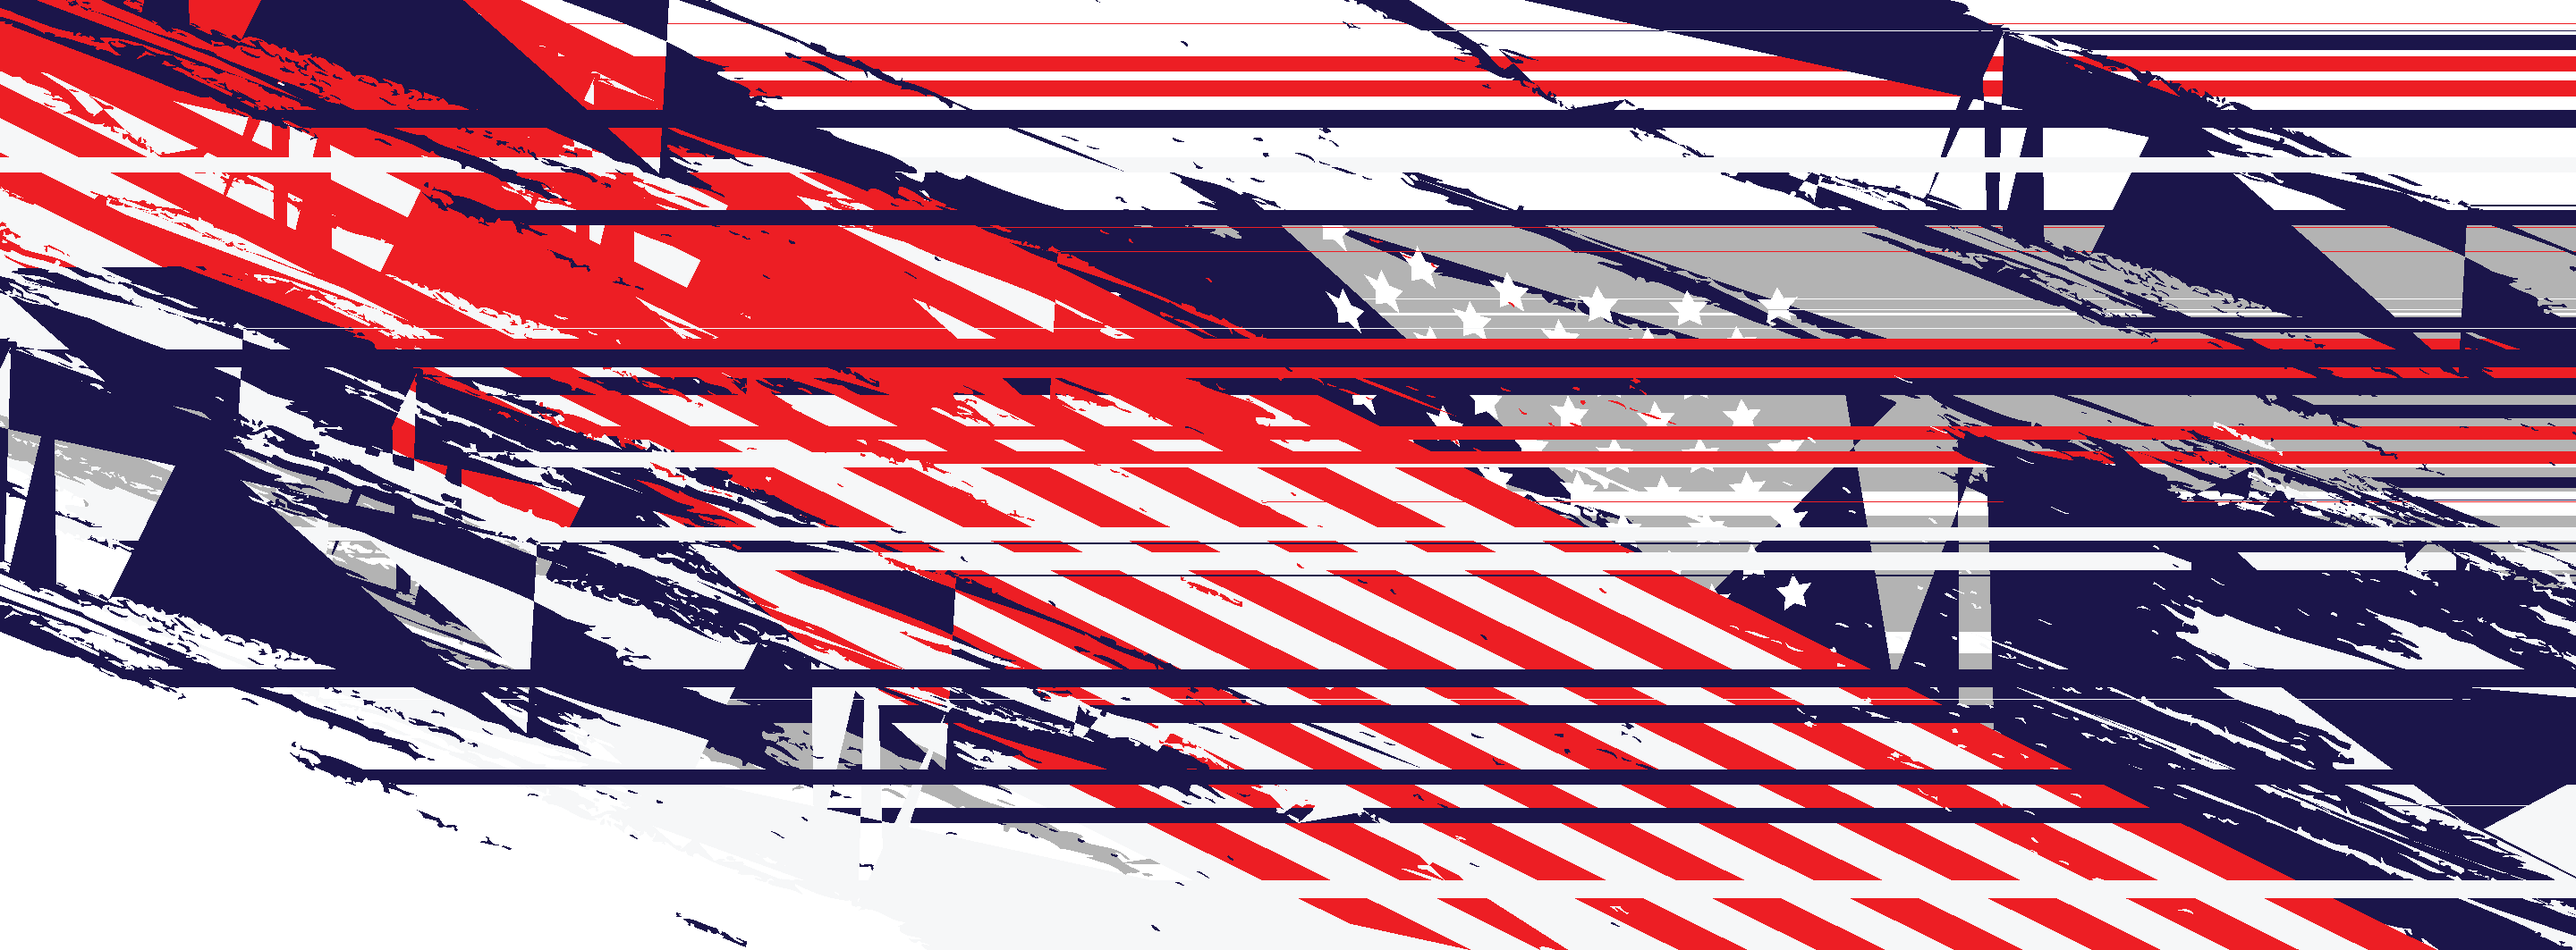
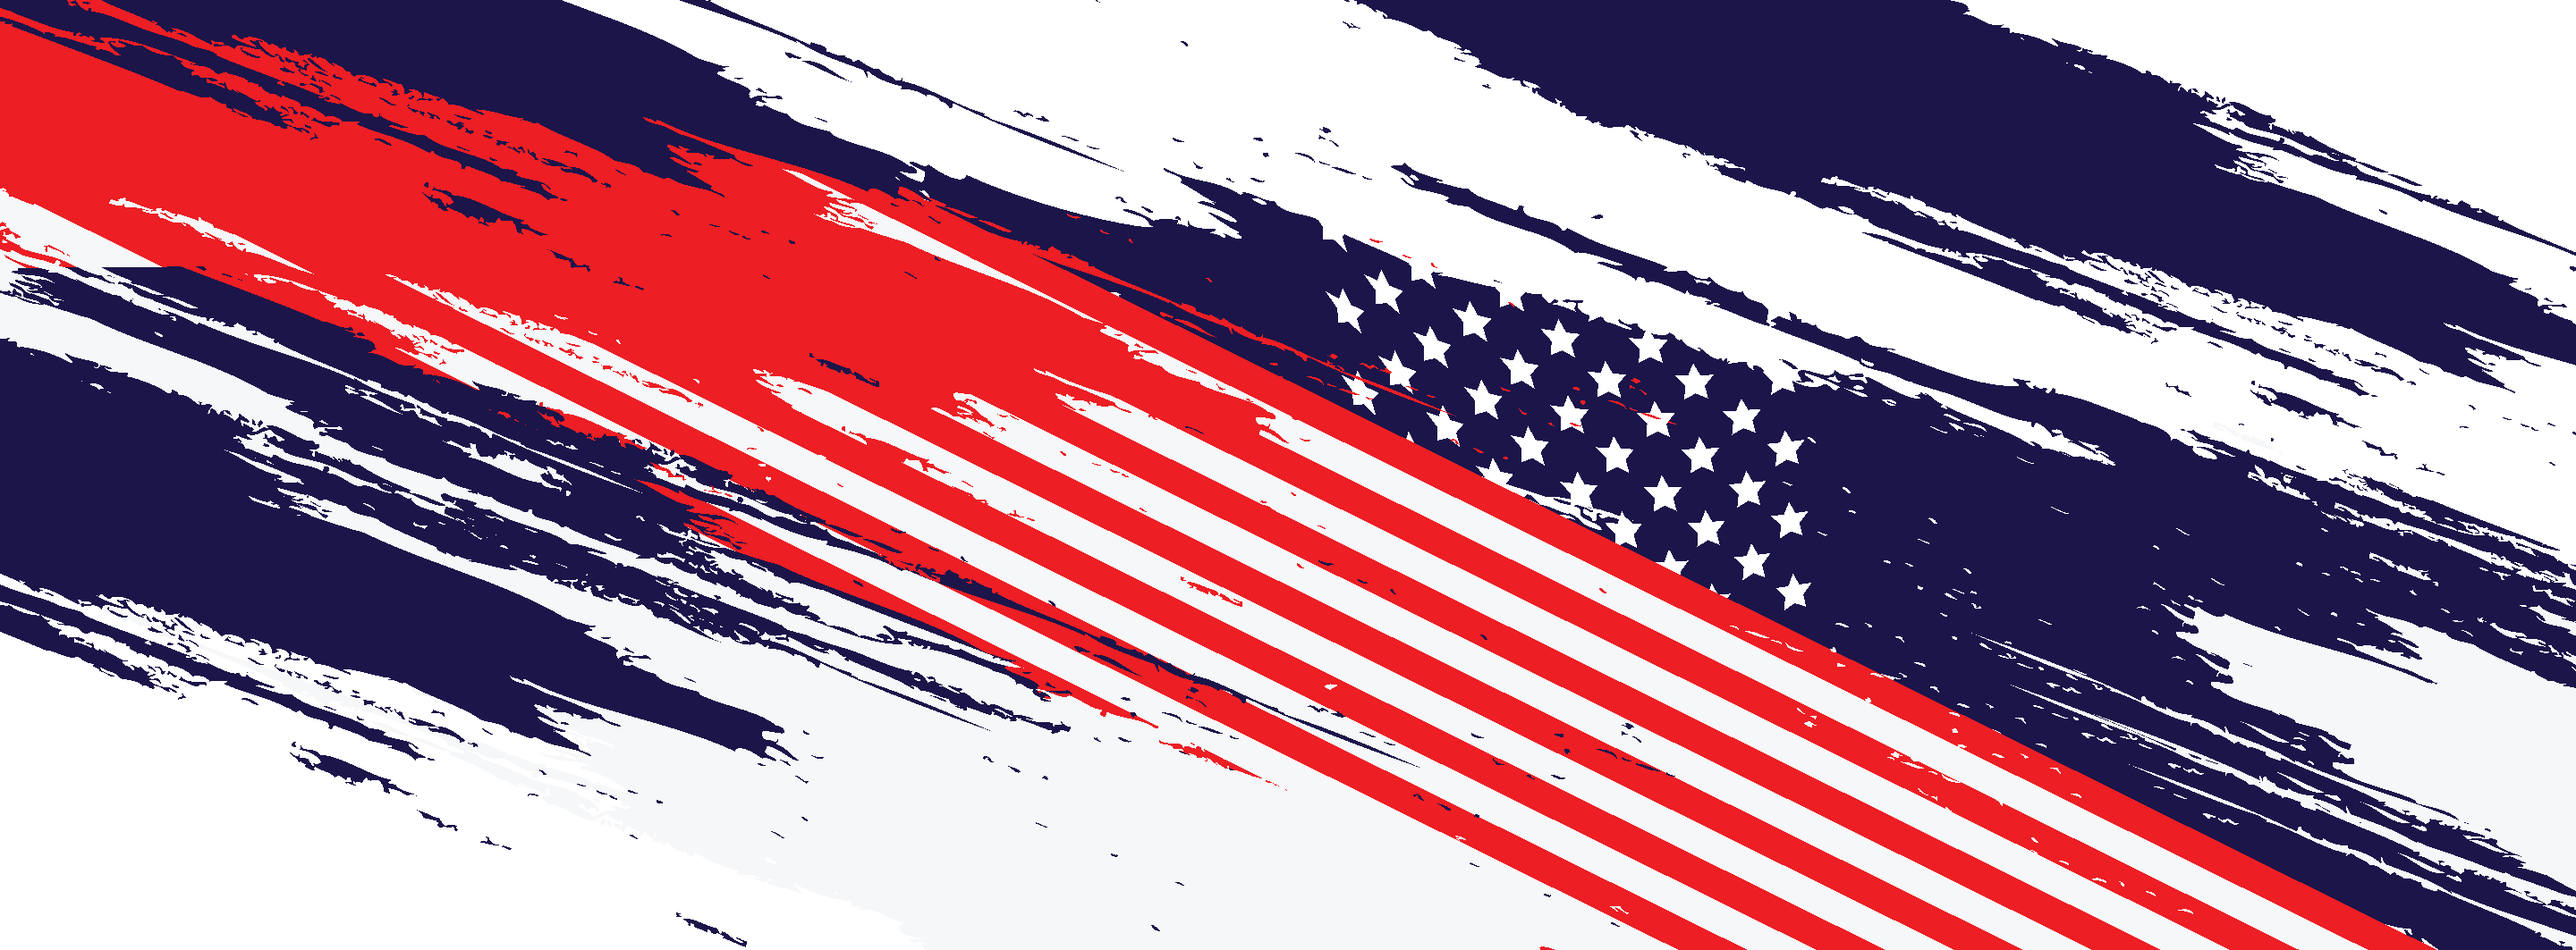
Fix the renderer
The issue is that I was treating sub-paths incorrectly. It's not enough
to just store a path as a `Vec<Point>`, we need multiple Vecs for
sub-paths, otherwise it's incorrect.

diff --git a/renderer/src/main.rs b/renderer/src/main.rs
@@ -6,7 +6,7 @@ use kurbo::{flatten, BezPath, PathEl, Point};
 
 #[derive(Debug, Clone)]
 struct Path {
-    lines: Vec<Point>,
+    lines: Vec<Vec<Point>>,
     fill: [u8; 3],
 }
 
@@ -23,7 +23,7 @@ fn render(
     width: usize,
     height: usize,
     paths: &Vec<Vec<PathEdges>>,
-    indices: &Vec<Path>,
+    reference: &Vec<Path>,
 ) -> Vec<u8> {
     const NUM_CHANNELS: usize = 3;
     let mut result = vec![255_u8; width * height * NUM_CHANNELS];
@@ -37,13 +37,8 @@ fn render(
                 let mut winding = 0_i32;
 
                 for l in path.edges.iter() {
-                    let l0 = indices[path.fill_index].lines[l.line_index - 1];
-                    let l1 = indices[path.fill_index].lines[l.line_index];
-
-                    if (l0.y - l1.y).abs() < 1e-6 {
-                        // Ignore horizontal lines, because we deal with scanlines going horizontally.
-                        continue;
-                    }
+                    let l0 = reference[path.path_index].lines[l.subpath_index][l.line_index - 1];
+                    let l1 = reference[path.path_index].lines[l.subpath_index][l.line_index];
 
                     let in_bounds = p.y > l0.y.min(l1.y) && p.y <= l0.y.max(l1.y);
                     let (l0, l1, dir) = if l0.y > l1.y {
@@ -51,13 +46,14 @@ fn render(
                     } else {
                         (l1, l0, -1_i32)
                     };
+                    // Horizontal lines aren't ignored explicitly, but will be ignored by this result (it will be false)
                     let to_the_right = point_is_to_the_right_of_line(&p, (&l0, &l1));
 
                     winding += ((in_bounds && to_the_right) as i32) * dir;
                 }
 
                 if winding != 0 {
-                    let color = indices[path.fill_index].fill;
+                    let color = reference[path.path_index].fill;
 
                     for i in 0..NUM_CHANNELS {
                         result[(y * width + x) * NUM_CHANNELS + i] = color[i];
@@ -78,7 +74,8 @@ fn main() -> io::Result<()> {
     let file = File::open("flattened.txt")?;
     let reader = BufReader::new(file);
     let mut lines = reader.lines();
-    let mut segments = Vec::<Point>::new();
+    let mut current_segments = Vec::<Point>::new();
+    let mut segments = Vec::<Vec<Point>>::new();
     let mut paths = Vec::<Path>::new();
 
     let header_line = lines
@@ -146,25 +143,31 @@ fn main() -> io::Result<()> {
 
         flatten(path, 0.1, |element| match element {
             PathEl::MoveTo(p) => {
-                if last_point != start_point {
-                    segments.push(start_point);
+                if !current_segments.is_empty() {
+                    segments.push(current_segments.clone());
+                    current_segments.clear();
                 }
-                segments.push(p);
+                current_segments.push(p);
                 start_point = p;
                 last_point = p;
             }
             PathEl::LineTo(p) => {
-                segments.push(p);
+                current_segments.push(p);
                 last_point = p;
             }
             PathEl::ClosePath => {
                 if last_point != start_point {
-                    segments.push(start_point);
+                    current_segments.push(start_point);
                     last_point = start_point;
                 }
             }
             _ => unreachable!(),
         });
+
+        if !current_segments.is_empty() {
+            segments.push(current_segments.clone());
+            current_segments.clear();
+        }
 
         paths.push(Path {
             lines: segments.clone(),
@@ -174,6 +177,7 @@ fn main() -> io::Result<()> {
 
     let sorted = sort_paths(&paths, height as usize);
     let buf = render(width as usize, height as usize, &sorted, &paths);
+
     image::save_buffer(
         "Output.png",
         buf.as_slice(),
@@ -188,13 +192,14 @@ fn main() -> io::Result<()> {
 
 #[derive(Debug, Clone)]
 struct Edge {
+    subpath_index: usize,
     line_index: usize,
 }
 
 #[derive(Debug, Clone)]
 struct PathEdges {
     edges: Vec<Edge>,
-    fill_index: usize,
+    path_index: usize,
 }
 
 // This is a very naive sort for paths. Basically filtering only the paths that are needed for each line.
@@ -204,25 +209,26 @@ fn sort_paths(paths: &Vec<Path>, height: usize) -> Vec<Vec<PathEdges>> {
     let mut result = vec![Vec::<PathEdges>::new(); height];
 
     for i in 0..paths.len() {
-        for j in 1..paths[i].lines.len() {
-            let l = [paths[i].lines[j - 1], paths[i].lines[j]];
+        for j in 0..paths[i].lines.len() {
+            for k in 1..paths[i].lines[j].len() {
+                let l = [paths[i].lines[j][k - 1], paths[i].lines[j][k]];
 
-            let start_y = l[0].y.min(l[1].y).floor() as usize;
-            let end_y = (l[0].y.max(l[1].y).ceil() as usize + 1).min(height);
+                let start_y = l[0].y.min(l[1].y).floor() as usize;
+                let end_y = (l[0].y.max(l[1].y).ceil() as usize + 1).min(height);
 
-            for y in start_y..end_y {
-                if result[y].is_empty() || (result[y].last().unwrap().fill_index != i) {
-                    result[y].push(PathEdges {
-                        edges: Vec::<Edge>::new(),
-                        fill_index: i,
+                for y in start_y..end_y {
+                    if result[y].is_empty() || (result[y].last().unwrap().path_index != i) {
+                        result[y].push(PathEdges {
+                            edges: Vec::<Edge>::new(),
+                            path_index: i,
+                        });
+                    }
+
+                    result[y].last_mut().unwrap().edges.push(Edge {
+                        subpath_index: j,
+                        line_index: k,
                     });
                 }
-
-                result[y]
-                    .last_mut()
-                    .unwrap()
-                    .edges
-                    .push(Edge { line_index: j });
             }
         }
     }
